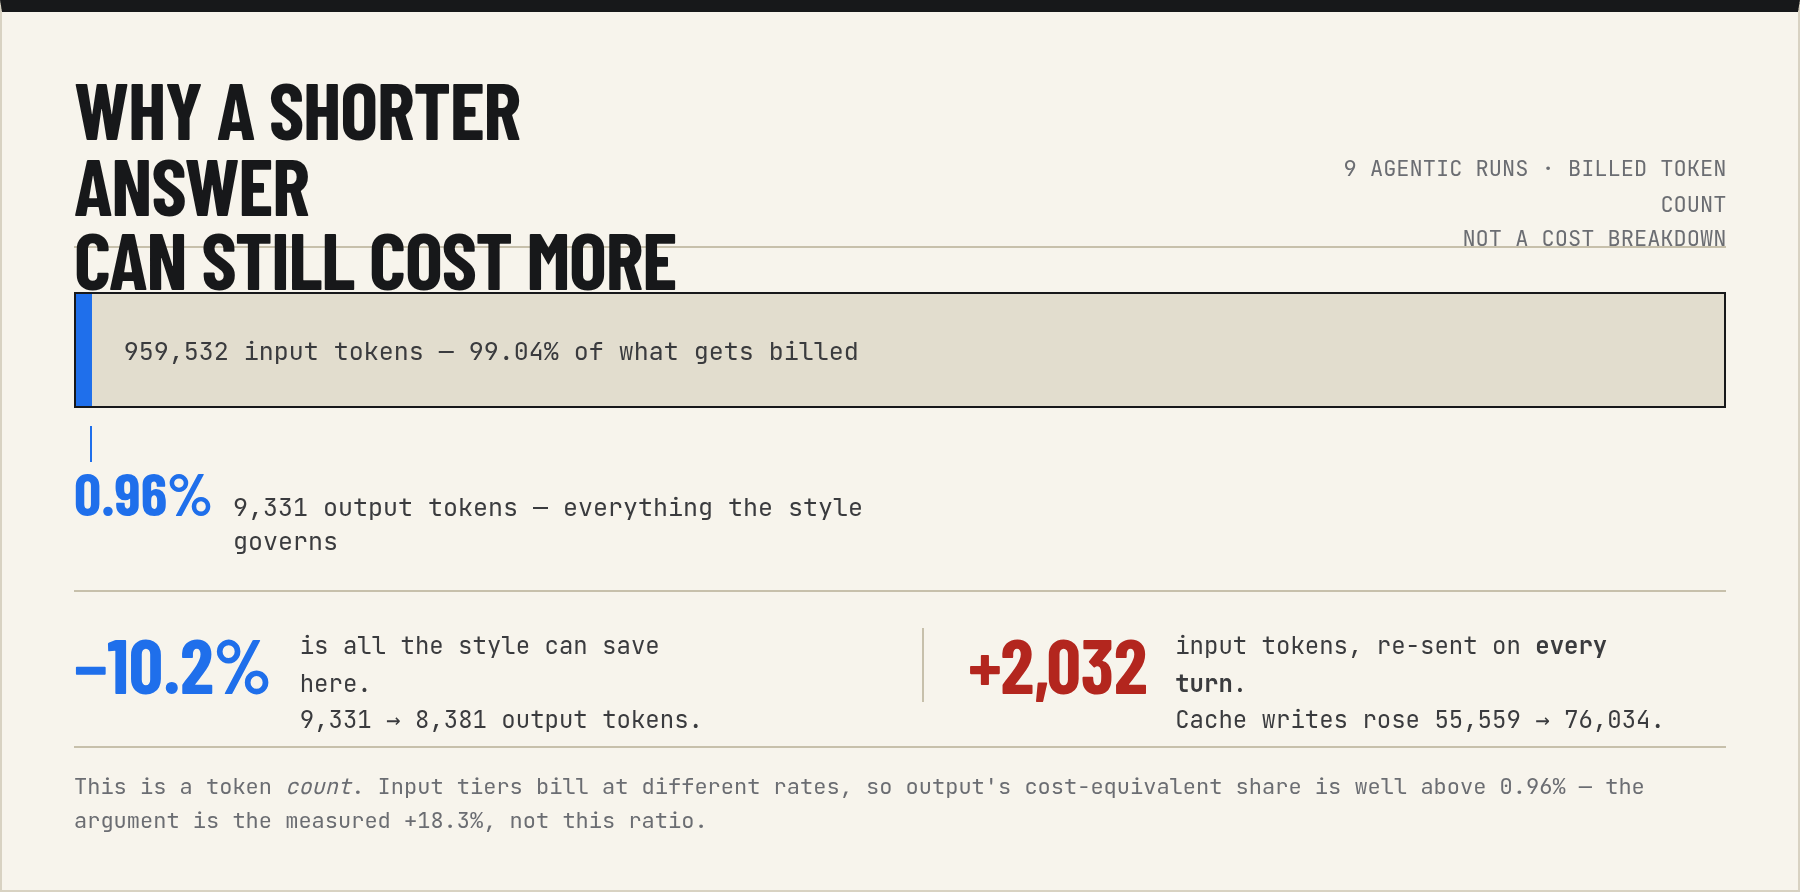
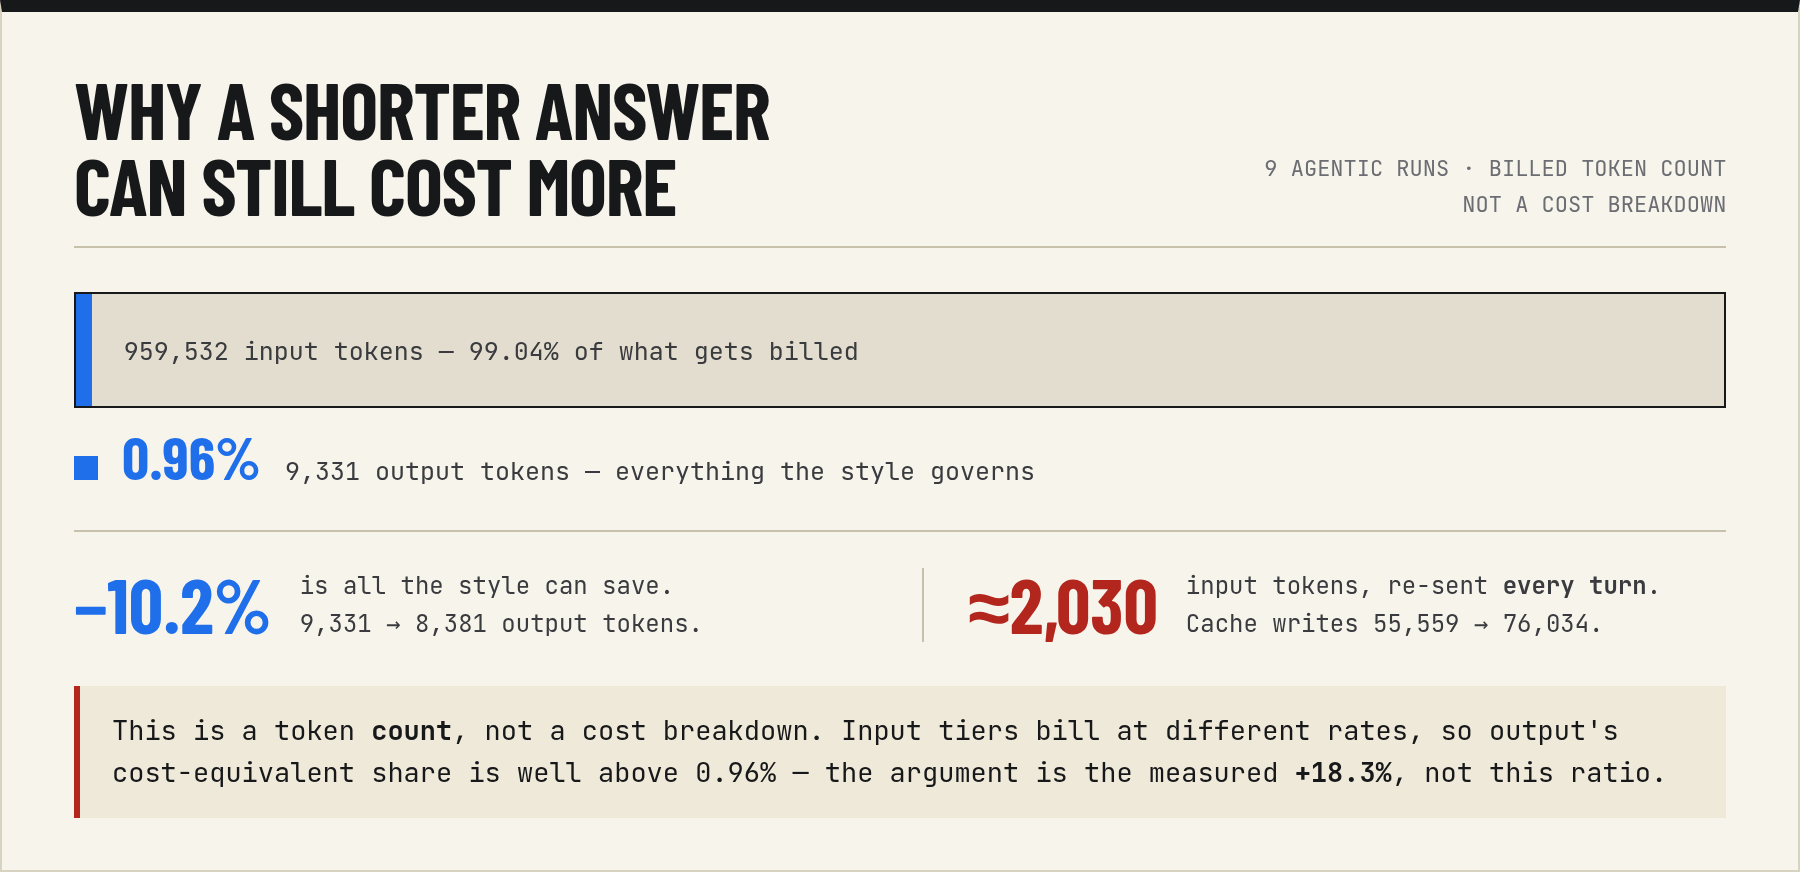
docs: swap in the designer's corrected figures
All three raster defects from Sol's review are now fixed at the source:
- 01-regimes: 'Same tasks passed. Same turns and tool calls in 6 of 9
  pairs' — no more flat 'same turns' overclaim.
- 02-token-mix: '≈2,030' not '+2,032', and the token-count/cost caveat is
  now a prominent bar rather than fine print.
- 03-floor: re-rendered, content unchanged and still accurate.

Figure 1 alt text gains the behavior parity (12/12 success, 6-of-9
identical) the raster now states. 451 tests pass.

Charts regenerated from the designer's data-driven generator (arriving in
the repo separately); these committed PNGs are its output.

diff --git a/README.md b/README.md
@@ -4,7 +4,7 @@
 
 **Use it for conversational prose. Do not expect it to save money in agentic coding work — there it costs more.**
 
-<img src="assets/01-regimes.png" width="900" alt="Two panels. Left: with BLUF, a question gets a shorter answer — output tokens −25.7% at the median, 5 of 5 trials negative. Right: in agentic coding work the same nine runs cost $2.49 without the style and $2.94 with it, +18.3%, positive in 9 of 9 pairs.">
+<img src="assets/01-regimes.png" width="900" alt="Two panels. Left: with BLUF, a question gets a shorter answer — output tokens −25.7% at the median, 5 of 5 trials negative. Right: in agentic coding work the same nine runs cost $2.49 without the style and $2.94 with it, +18.3%, positive in 9 of 9 pairs. Task success was 12 of 12 in both arms, and turns and tool calls were identical in 6 of 9 pairs.">
 
 | | Result | Where |
 | --- | --- | --- |
